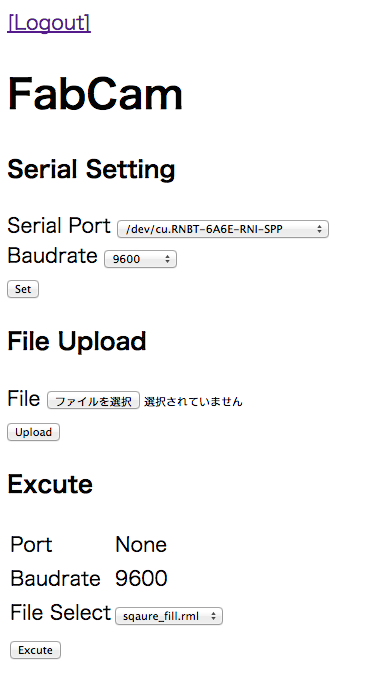
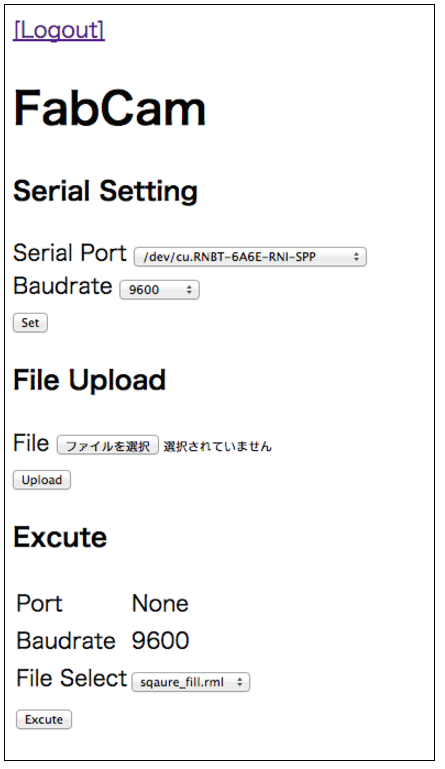
update

Changed region(s): [[0.0, 0.0, 0.7385, 1.0], [0.9538, 0.0, 0.9846, 1.0], [0.7692, 0.3057, 0.8308, 0.3668]]

diff --git a/docs/README.md b/docs/README.md
@@ -13,7 +13,7 @@ You can use hostname such as "fabcam.local" as IP_ADDR, if the app is running wi
 Please enter username and password <br>
 default username is "fablab", password is "fablab" <br>
 
-<img src="https://raw.githubusercontent.com/ohwada/FabCam/master/docs/fabcam_login.png" width="200" border="1" />
+<img src="https://raw.githubusercontent.com/ohwada/FabCam/master/docs/fabcam_login.png" width="300" />
 
 ### Setup
 (1) Setup serial setting <br>
@@ -21,14 +21,14 @@ If Serial Port is empty, connect the machine with USB cable, and refresh web bra
 (2) Upload G-code file <br>
 (3) Push ”Excute" botton <br>
 
-<img src="https://raw.githubusercontent.com/ohwada/FabCam/master/docs/fabcam_main.png" width="200" border="1" />
+<img src="https://raw.githubusercontent.com/ohwada/FabCam/master/docs/fabcam_main.png" width="300"/>
 
 ### Excute
 Usually display immediately "END", and the machine will be run. <br>
 If it is taking time to transfer data to the machine, display consecutive dots such as "..." <br>
 If the transfer fails, display the reason <br>
 
-<img src="https://raw.githubusercontent.com/ohwada/FabCam/master/docs/fabcam_excute.png" width="200" border="1" />
+<img src="https://raw.githubusercontent.com/ohwada/FabCam/master/docs/fabcam_excute.png" width="300"  />
 
 ### Notice
 This app does not have the generation function of G-code. <br>
